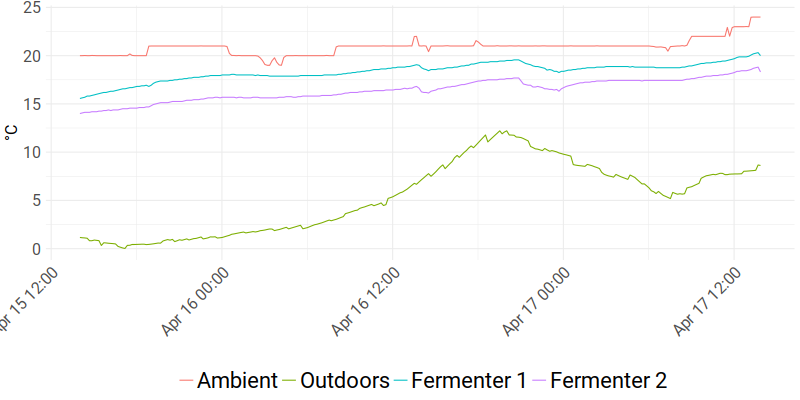
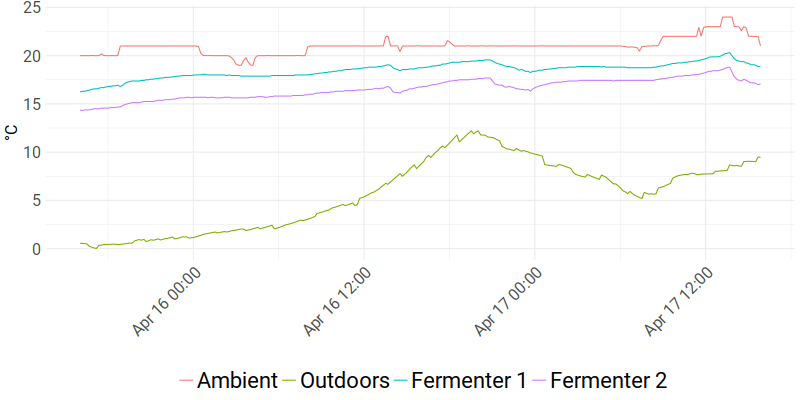
Update live temperature on site

diff --git a/temperature.js b/temperature.js
@@ -1,1 +1,1 @@
-document.write("<h4>Inside Temperature: 24.0°C</h4><h4>Outside Temperature: 8.62°C</h4><h4>Fermenter 1 Temperature: 20.0°C</h4><h4>Fermenter 2 Temperature: 18.31°C</h4><h4>Inside Humidity: 49.73%</h4><h4>Outside Humidity: 55.0%</h4><br>Last update: 2018-04-17 13:51:18");
+document.write("<h4>Inside Temperature: 21.01°C</h4><h4>Outside Temperature: 9.46°C</h4><h4>Fermenter 1 Temperature: 18.88°C</h4><h4>Fermenter 2 Temperature: 17.06°C</h4><h4>Inside Humidity: 18.43%</h4><h4>Outside Humidity: 49.0%</h4><br>Last update: 2018-04-17 15:51:31");
